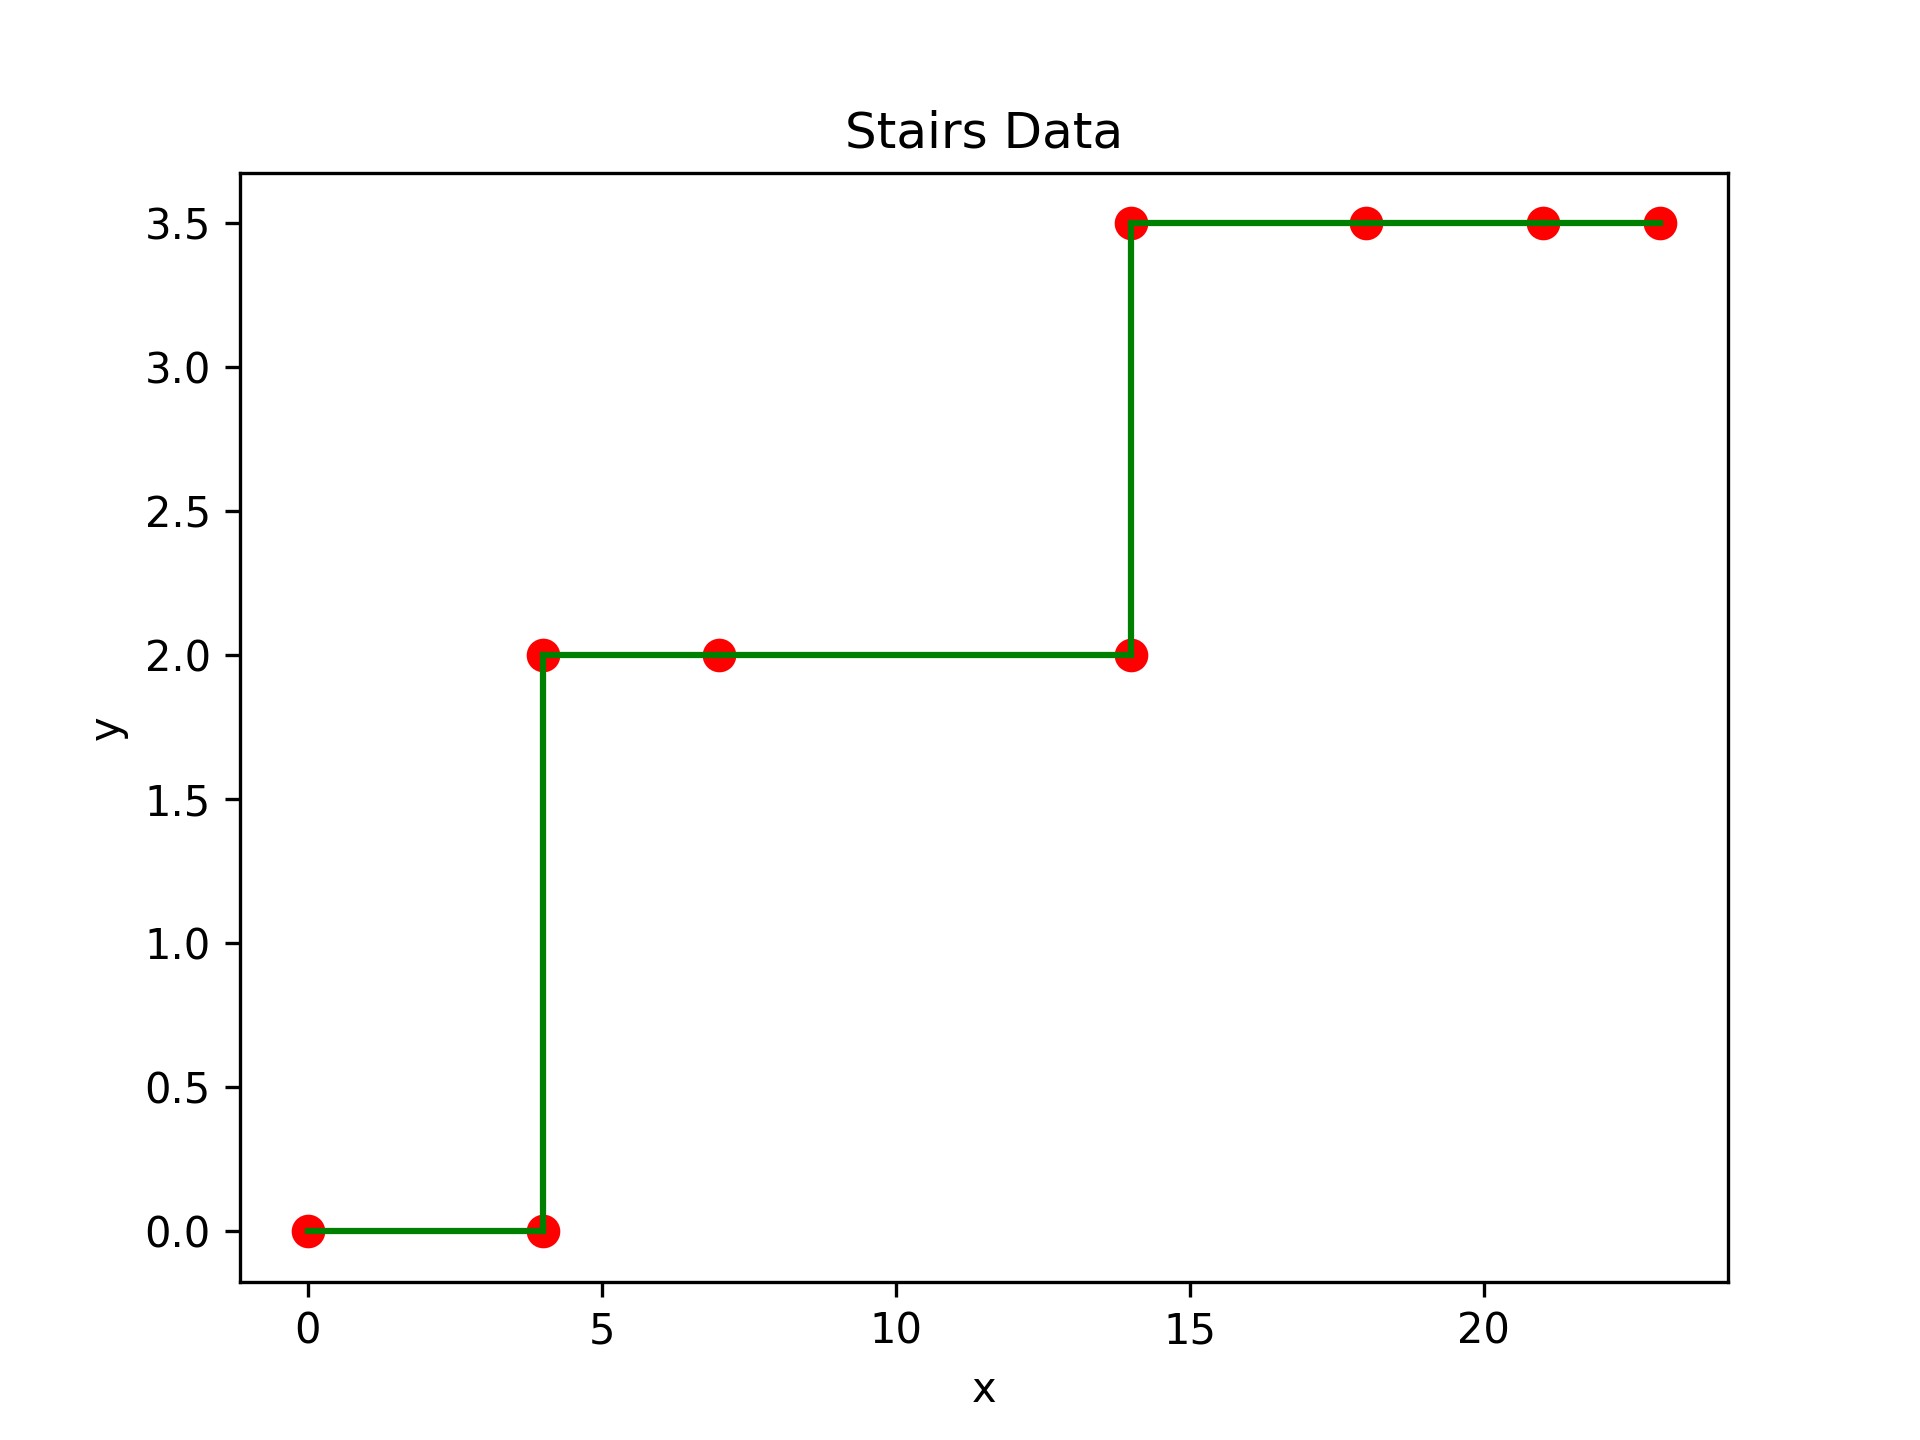
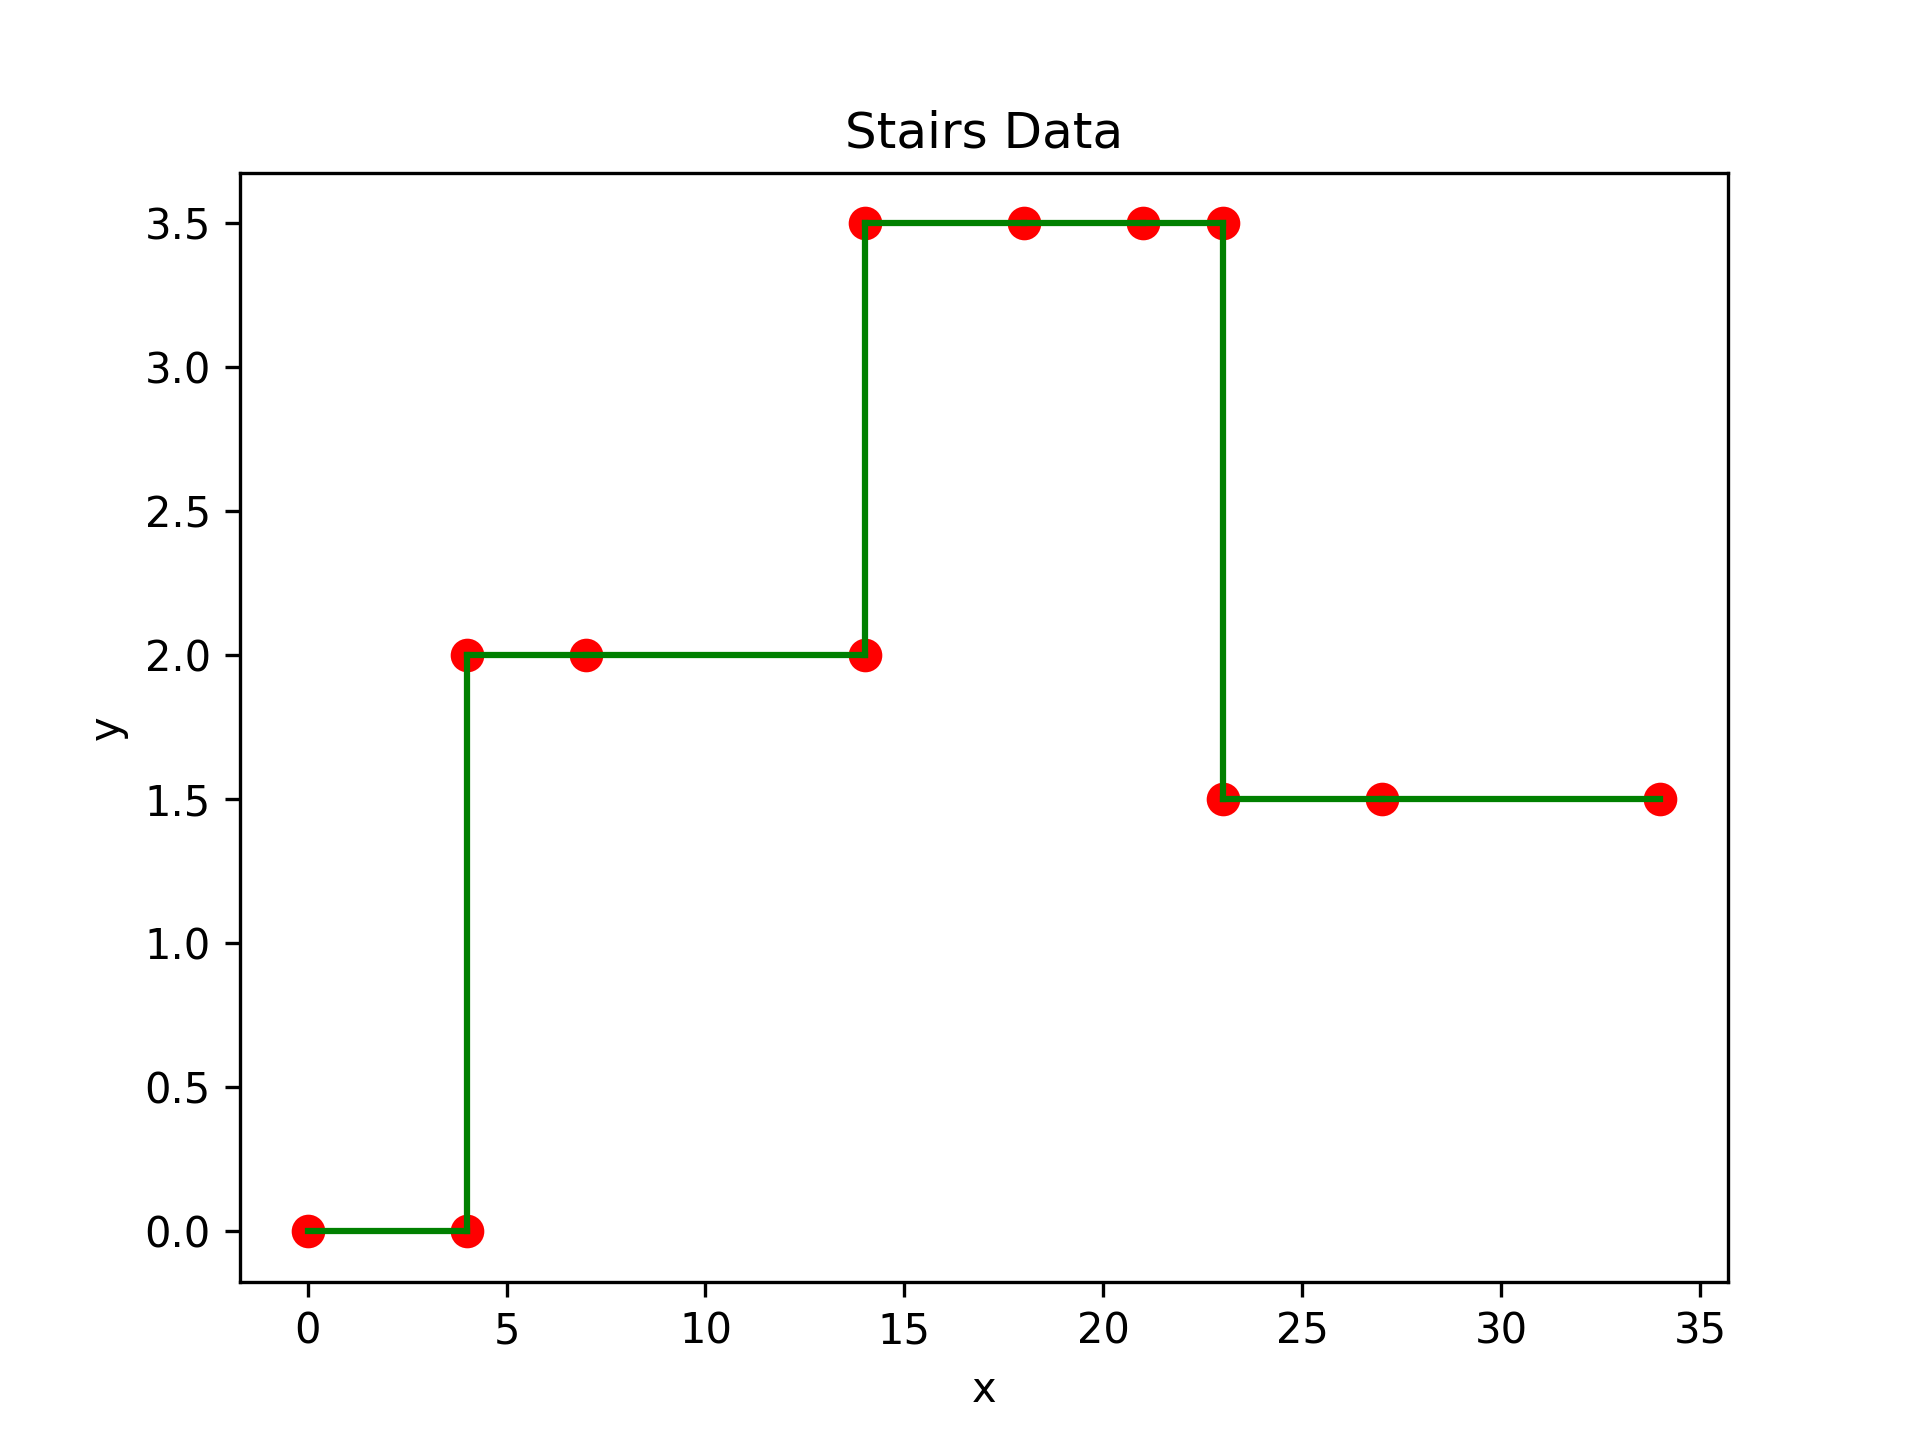
Begin histogram data

diff --git a/scripts/run_simple.py b/scripts/run_simple.py
@@ -1,0 +1,35 @@
+import pandas as pd
+import matplotlib.pyplot as plt
+
+from os import system
+system("make")
+
+# Vary last line of input.txt i.e. segment cost
+
+for i in range(1, 101):
+    # Generate the new line for the input file
+    new_line = str(i) + '\n'
+
+    # Read the contents of the input file, except the last line
+    with open('input.txt', 'r') as f:
+        contents = f.readlines()[:-1]
+
+    # Add the new line to the end of the contents
+    contents.append(new_line)
+
+    # Write the new contents to the input file
+    with open('input.txt', 'w') as f:
+        f.writelines(contents)
+
+    # Run the program
+    system("./bin/app < input.txt > output.txt")
+
+    # Read the first line from output from output.txt
+    with open("output.txt") as f:
+        output = f.readline()
+
+    # Write the output to plot_simple.csv
+    with open("plot_simple.csv", "a") as f:
+        f.write(f"{i},{output}\n")
+
+

diff --git a/REPORT.md b/REPORT.md
@@ -34,15 +34,18 @@ Consider the following points, which trace out a stair pattern,
 
 |x|y|
 |-|-|
-|  0 |  0 |
-|  4 |  0 |
-|  4 |  2 |
-|  7 |  2 |
-| 14 |  2 |
-| 14 |  3.5 |
-| 18 |  3.5 |
-| 21 |  3.5 |
-| 23 |  3.5 |
+|  0 |   0 |
+|  4 |   0 |
+|  4 |   2 |
+|  7 |   2 |
+| 14 |   2 |
+| 14 | 3.5 |
+| 18 | 3.5 |
+| 21 | 3.5 |
+| 23 | 3.5 |
+| 23 | 1.5 |
+| 27 | 1.5 |
+| 34 | 1.5 |
 
 ![Stairs Data](./plots/stairs.png)
 
